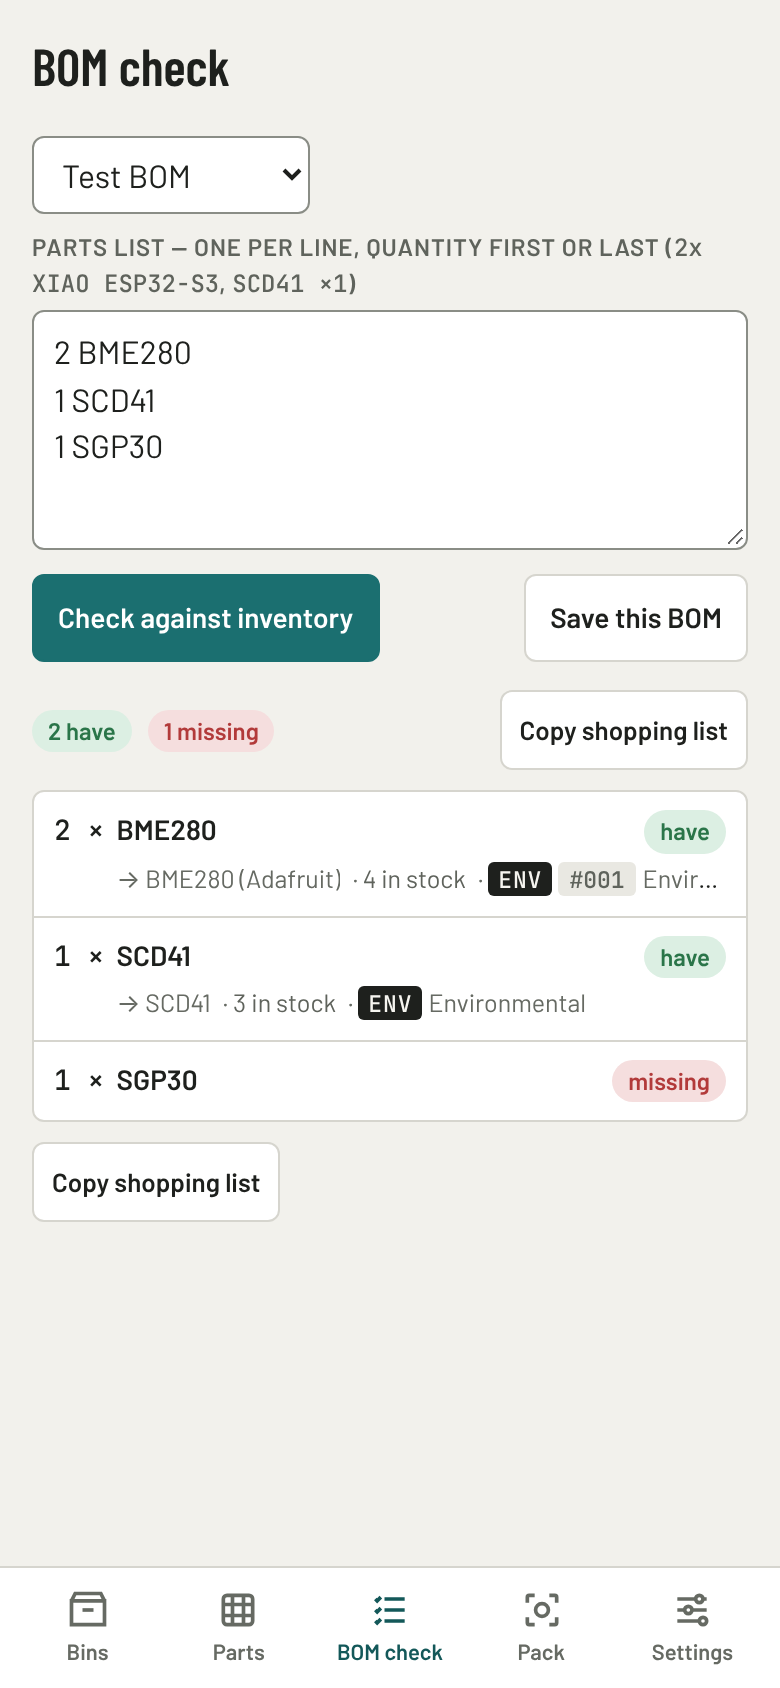
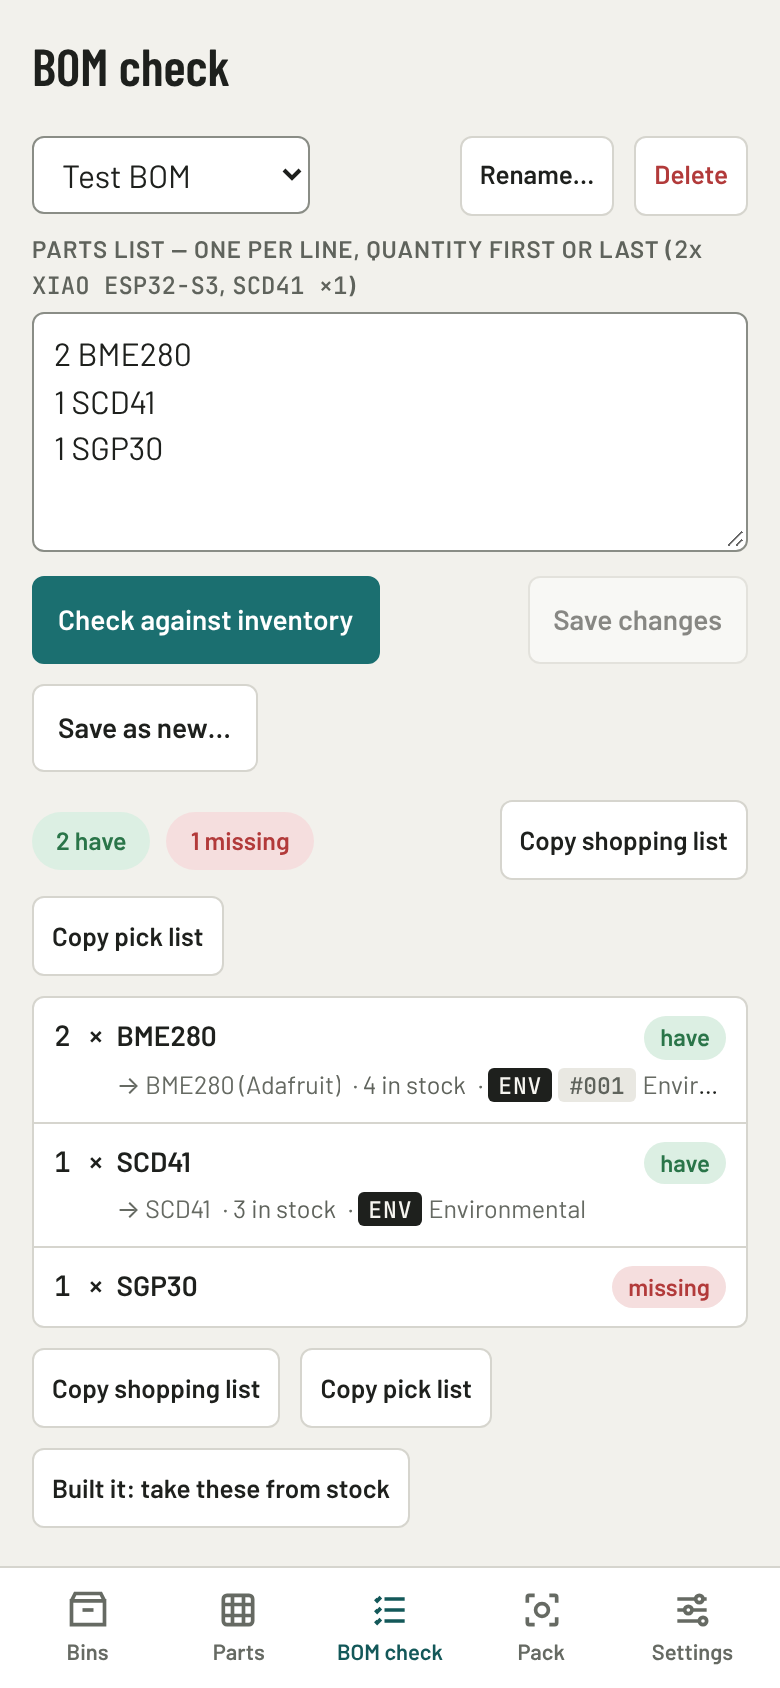
README and the BOM check pictures say what BOM check does now
The README's BOM check line said only have / short / missing and a shopping list. It now says that exports from KiCad,
a Digi-Key or Mouser cart and Fritzing paste in, that a part that may be the wrong one says check, that a count shows
only its lines, and that there's a pick list, Built it with Undo, and saved BOMs that can be saved over, saved as new,
renamed and deleted. docs/phone-bom.png and og.png are made again from the screen as it is now. Copy for Mark's BOM
check answers.

Claude-Session: https://claude.ai/code/session_01PQbLNV3sphK8ujnLfUr9aR

diff --git a/README.md b/README.md
@@ -16,7 +16,7 @@
 - **Pack.** Pick the bin or box you're filling, type what's in the bag and pick the match (or a new part), check the count, save. A part that's already in a bag keeps its number, so the sticker on that bag still opens it. For a new bag, the tag screen opens already listening: hold a blank sticker to the phone and it gets that bag's link. The next bag number is waiting.
 - **Tap a tag to find a bag.** While Parts Bin is open it listens for tags, so holding any bag or bin sticker to the phone opens it right here. (The first time, tap the tag button by the search box to allow NFC; after that it starts by itself.) Tags written by the old Stockroom artifact open here too, with an offer to rewrite them so they open Parts Bin even when the page is closed.
 - **One bag, one number.** Two devices numbering bags before they've synced can give out the same number. When that happens, Bins, Parts and Pack say so, Parts › *Bag numbers to sort out* lists both parts (the one with the tag first, as its sticker carries the number) and the numbers no part has, and the other part's page gives it the next number and writes its tag. A tag for a number on two parts opens the one with the tag.
-- **BOM check.** Paste a parts list, or pick a saved one, and get have / short / missing with where each part lives, plus a shopping list.
+- **BOM check.** Paste a parts list (typed, from a guide, or an export from KiCad, a Digi-Key or Mouser cart, or Fritzing), or pick a saved one, and get have / short / missing with where each part lives. A part that may be the wrong one (a 10k resistor for a 1k) says *check*. Tap a count to see only those lines. Copy a shopping list, or a pick list grouped by bin with bag numbers to gather the parts, and after the build, *Built it* takes them out of stock (with Undo). A saved BOM can be saved over, saved as new, renamed or deleted.
 - **Boxes for a move.** A box is a container like a bin; each part remembers which bin it came out of. A box page lists its bags in number order, puts each one back where it came from with a tap (with Undo), and prints its packing list.
 - **Same on every device.** Turn on Google Drive in Settings and the inventory is saved to a "Parts Bin" folder in your Drive and merged part by part with your other devices. Without it, everything stays in this browser.
 - **Inbox: parts from a photo, a receipt or a link.** Send Claude a photo of the bags, an order email or a product page; it replies with a link that opens the Inbox (under Pack) with each part filled in. Tap a card, check it, **Save & tag**. A part you already have is offered first, so it's bagged under its own record and no double is made. The Claude skill that does the reading is in [`skill/parts-bin-cataloger/`](skill/parts-bin-cataloger/SKILL.md).
